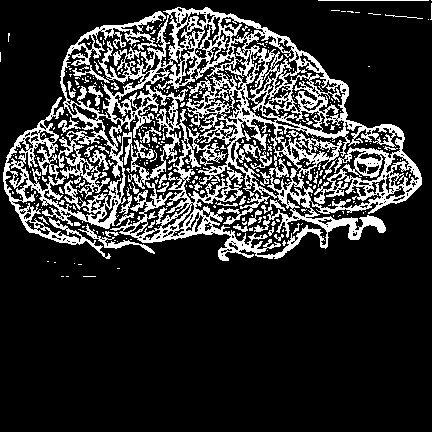
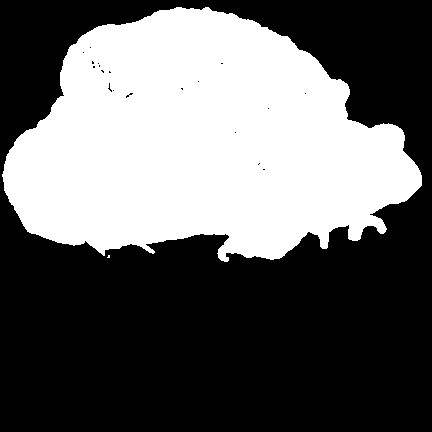
дополнение README + замена порога

Changed region(s): [[0.0, 0.0, 0.963, 0.6019], [0.7523, 0.0, 0.8426, 0.0301], [0.9931, 0.0, 1.0, 0.0602]]

diff --git a/utils/detector_utils.py b/utils/detector_utils.py
@@ -1,5 +1,3 @@
-# Utilities for object detector.
-
 import numpy as np
 import sys
 import tensorflow as tf
@@ -24,7 +22,6 @@ PATH_TO_CKPT = MODEL_NAME + '/frozen_inference_graph.pb'
 PATH_TO_LABELS = os.path.join(MODEL_NAME, 'hand_label_map.pbtxt')
 
 NUM_CLASSES = 1
-# load label map
 label_map = label_map_util.load_labelmap(PATH_TO_LABELS)
 categories = label_map_util.convert_label_map_to_categories(
     label_map, max_num_classes=NUM_CLASSES, use_display_name=True)
@@ -47,9 +44,6 @@ def load_inference_graph():
     print(">  ====== Hand Inference graph loaded.")
     return detection_graph, sess
 
-
-# draw the detected bounding boxes on the images
-# You can modify this to also draw a label.
 def draw_toad_on_image(box, image_np, toad):
     im_width = image_np.shape[1]
     im_height = image_np.shape[0]
@@ -67,21 +61,12 @@ def draw_toad_on_image(box, image_np, toad):
     best_image = overlay_image(image_np, toad, (x, y))
     return best_image
 
-# Actual detection .. generate scores and bounding boxes given an image
 def detect_objects(image_np, detection_graph, sess):
-    # Definite input and output Tensors for detection_graph
     image_tensor = detection_graph.get_tensor_by_name('image_tensor:0')
-    # Each box represents a part of the image where a particular object was detected.
-    detection_boxes = detection_graph.get_tensor_by_name(
-        'detection_boxes:0')
-    # Each score represent how level of confidence for each of the objects.
-    # Score is shown on the result image, together with the class label.
-    detection_scores = detection_graph.get_tensor_by_name(
-        'detection_scores:0')
-    detection_classes = detection_graph.get_tensor_by_name(
-        'detection_classes:0')
-    num_detections = detection_graph.get_tensor_by_name(
-        'num_detections:0')
+    detection_boxes = detection_graph.get_tensor_by_name('detection_boxes:0')
+    detection_scores = detection_graph.get_tensor_by_name('detection_scores:0')
+    detection_classes = detection_graph.get_tensor_by_name('detection_classes:0')
+    num_detections = detection_graph.get_tensor_by_name('num_detections:0')
 
     image_np_expanded = np.expand_dims(image_np, axis=0)
 
@@ -92,63 +77,47 @@ def detect_objects(image_np, detection_graph, sess):
     return np.squeeze(boxes), np.squeeze(scores)
 
 def overlay_image(bg, fg, coords):
-    # определить размер переднего плана (ширина, высота) и
-    # координаты его размещения
     (sH, sW) = fg.shape[:2]
     (x, y) = coords
-
-    # наложение должно быть точно такой ширины и высоты как
-    # исходная картинка, но полностью пустым, *кроме* переднего
-    # плана, который мы добавляем
     overlay = np.zeros(bg.shape, dtype="uint8")
     overlay[y:y + sH, x:x + sW] = fg
-
-    # альфа-канал контролирует, *координаты* и *степень*
-    # прозрачности, его размеры такие же, как у исходного
-    # изображения, но он содержит только маску наложения
     alpha = np.zeros(bg.shape[:2], dtype="uint8")
+
     dwiMask = cv2.cvtColor(fg, cv2.COLOR_BGRA2GRAY)
     cv2.imwrite('gray.jpg', dwiMask)
-    #dwiMask = cv2.threshold(dwiMask, 0, 255, cv2.THRESH_BINARY_INV)[1]
-    dwiMask = cv2.adaptiveThreshold(dwiMask, 255, cv2.ADAPTIVE_THRESH_GAUSSIAN_C,  cv2.THRESH_BINARY_INV, 11, 2)
+    dwiMask = cv2.threshold(dwiMask, 230, 255, cv2.THRESH_BINARY_INV)[1]
     cv2.imwrite('mask.jpg', dwiMask)
     kernel = np.ones((8, 8), np.uint8)
-    #op = cv2.morphologyEx(dwiMask, cv2.MORPH_CLOSE, kernel)
     dil = cv2.dilate(dwiMask, kernel, iterations = 1)
     kernel = np.ones((15, 15), np.uint8)
     op = cv2.erode(dil, kernel, iterations = 1)
     kernel1 = np.ones((10, 10), np.uint8)
     op = cv2.morphologyEx(op, cv2.MORPH_OPEN, kernel1)
     cv2.imwrite('mask1.jpg', op)
+
     alpha[y:y + sH, x:x + sW] = op
     alpha = np.dstack([alpha] * 3)
 
-    # выполняем альфа-смешивание для переднего плана,
-    # фона и альфа-канала
     output = alpha_blend(overlay, bg, alpha)
 
-    # возвращаем результат
     return output
 
 
 def alpha_blend(fg, bg, alpha):
-    # преобразуем фон, передний план и альфа-канал
-    # в числа с плавающей запятой в диапазоне [0, 1]
     fg = fg.astype("float")
     bg = bg.astype("float")
     alpha = alpha.astype("float") / 255
 
-    # выполняем альфа-смешивание
     fg = cv2.multiply(fg, alpha)
     bg = cv2.multiply(bg, 1-alpha)
 
-    # добавляем передний план и фон, получая конечный результат
     output = cv2.add(fg, bg)
 
-    # возвращаем результат
     return output.astype("uint8")
 
-def draw_box_on_image(num_hands_detect, boxes, im_width, im_height, image_np):
+def draw_box_on_image(num_hands_detect, boxes, image_np):
+    im_width = image_np.shape[1]
+    im_height = image_np.shape[0]
     for i in range(num_hands_detect):
         (left, right, top, bottom) = (boxes[i][1] * im_width, boxes[i][3] * im_width,
                                           boxes[i][0] * im_height, boxes[i][2] * im_height)
@@ -156,15 +125,3 @@ def draw_box_on_image(num_hands_detect, boxes, im_width, im_height, image_np):
         p2 = (int(right), int(bottom))
         cv2.rectangle(image_np, p1, p2, (77, 255, 9), 3, 1)
     return image_np
-
-def prepare_image(image):
-    n_image = np.zeros((image.shape[0], image.shape[1], image.shape[2]-1))
-    for i in range(image.shape[0]):
-        for j in range(image.shape[1]):
-            if image[i, j, 3] > 0:
-                for k in range(image.shape[2] - 1):
-                    n_image[i, j, k] = image[i, j, k]
-            else:
-                for k in range(image.shape[2] - 1):
-                    n_image[i, j, k] = 0
-    return n_image.astype(np.float32)

diff --git a/detect_single_threaded.py b/detect_single_threaded.py
@@ -21,6 +21,6 @@ boxes, scores = detector_utils.detect_objects(image_np, detection_graph, sess)
 
 best_box = boxes[np.argmax(scores)]
 
-new_image = detector_utils.draw_box_on_image(num_hands_detect, boxes, image_np.shape[1], image_np.shape[0], image_np)
+new_image = detector_utils.draw_box_on_image(num_hands_detect, boxes, image_np)
 best_image = detector_utils.draw_toad_on_image(best_box, new_image, toad)
 cv2.imwrite('haha.png', best_image)

diff --git a/README.md b/README.md
@@ -5,6 +5,8 @@
 - conda env update -f toads_env.yml
 - conda activate ToadEnv
 
+Перед запуском нужно сделать export KMP_DUPLICATE_LIB_OK=TRUE
+
 ПРОФИТ
 
 *detect_single_threaded.py* - основная часть программы
